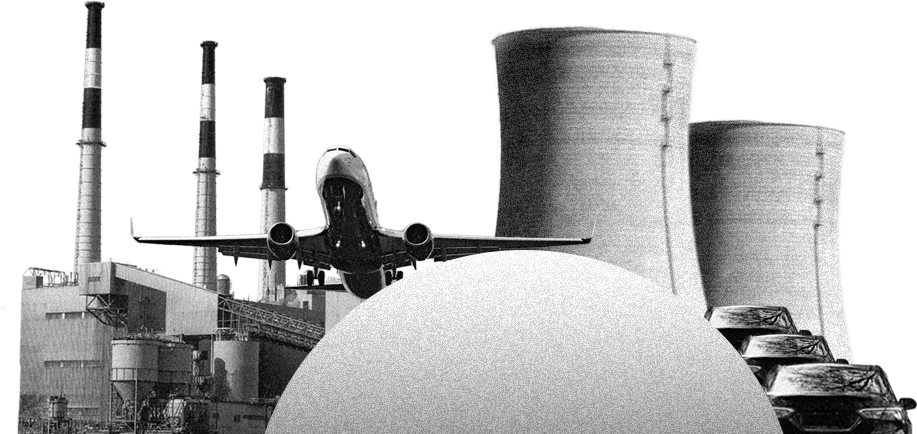
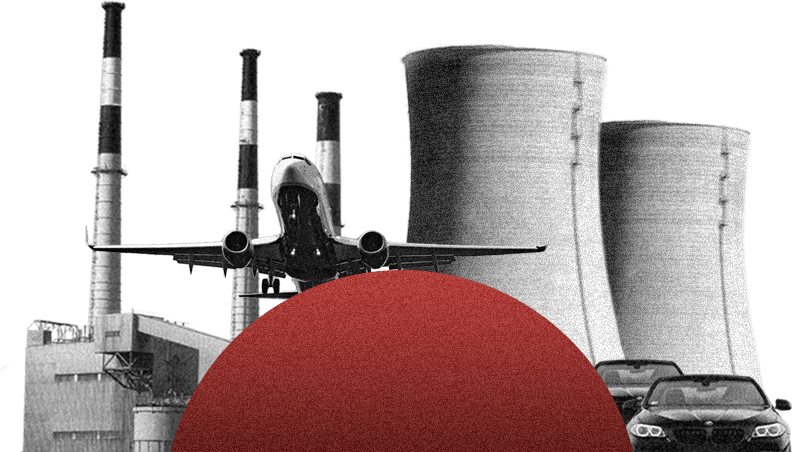
new illustration

diff --git a/src/lib/components/charts/co2BudgetTimeline/index.svelte b/src/lib/components/charts/co2BudgetTimeline/index.svelte
@@ -149,7 +149,7 @@
 		}
 	];
 
-	$: illustrationPosition = progress > 0 ? progress * -2500 : 0;
+	$: illustrationPosition = progress > 0 ? progress * -3500 : 0;
 </script>
 
 <div class="-mt-24">
@@ -182,15 +182,11 @@
 			<img
 				src="/images/co2b-illustration.png"
 				alt="CO2-Emissionen haben vielfältige Quellen, vom Flugzeug zur Fabrik, vom Auto bis zum Kraftwerk."
-				class="absolute w-full max-w-4xl left-0 md:left-1/2 md:-translate-x-1/2"
+				class="absolute w-[120vw] -translate-x-[10vw] max-w-xl md:left-1/2 md:-translate-x-1/2"
 				style="bottom: {illustrationPosition || 0}px;"
 			/>
 			<div class="absolute bottom-0 w-full">
-				<div
-					class="max-w-3xl mx-auto flex items-center text-xs {index == 0
-						? 'text-white'
-						: 'text-gray-600'} p-2 transition"
-				>
+				<div class="max-w-3xl mx-auto flex items-center text-xs text-gray-600 p-2 transition">
 					<div class="flex items-center space-x-1 font-bold">
 						<div class="w-1.5 h-1.5 rounded-xl bg-current" />
 						<p class="">
